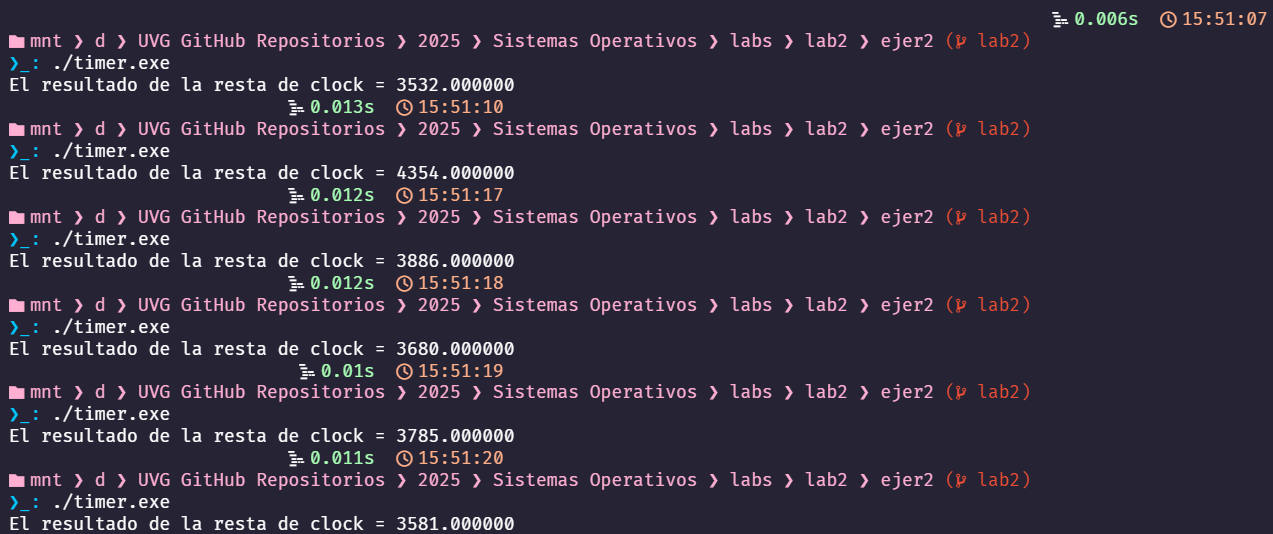
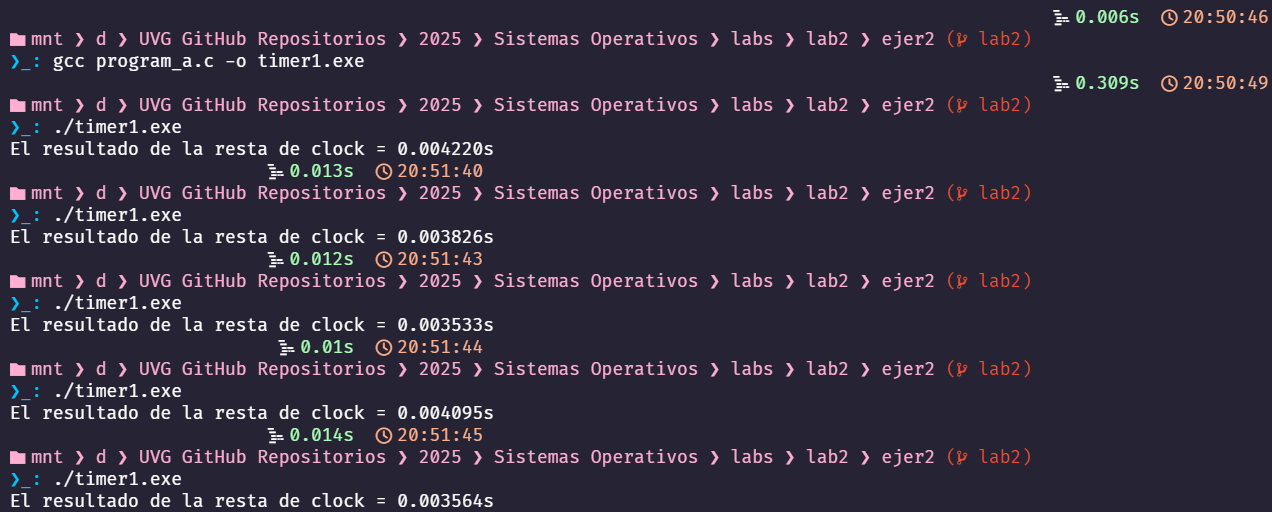
feat:  corrigiendo el tiempo en segundo para programas

Changed region(s): [[0.0, 0.0625, 0.8278, 1.0], [0.8278, 0.0, 1.0, 0.0625], [0.8278, 0.125, 1.0, 0.1875]]

diff --git a/labs/lab2/ejer3/program_b.c b/labs/lab2/ejer3/program_b.c
@@ -31,6 +31,7 @@ int main()
       // hijo
       for (size_t i = 0; i < count; i++)
       {
+        printf("%d", i);
       }
       wait(NULL);
     }
@@ -43,6 +44,7 @@ int main()
         // nieto
         for (size_t i = 0; i < count; i++)
         {
+          printf("%d", i);
         }
         wait(NULL);
       }
@@ -51,6 +53,7 @@ int main()
         // bisnieto
         for (size_t i = 0; i < count; i++)
         {
+          printf("%d", i);
         }
       }
       else

diff --git a/labs/lab2/ejer3/program_a.c b/labs/lab2/ejer3/program_a.c
@@ -10,14 +10,17 @@ int main()
   timer1 = clock();
   for (size_t i = 0; i < count; i++)
   {
+    // printf("%zu", i);
   }
 
   for (size_t i = 0; i < count; i++)
   {
+    // printf("%zu", i);
   }
 
   for (size_t i = 0; i < count; i++)
   {
+    // printf("%zu", i);
   }
   timer2 = clock();
 

diff --git a/labs/lab2/ejer2/README.md b/labs/lab2/ejer2/README.md
@@ -4,13 +4,13 @@
 
 Realizando un programa con 3 `for` consecutivos con 1 millón de iteraciones, tomando el tiempo que ha transcurrido desde el primer `for` hasta que se acaban los 3, usando la librería `time` e imprimiendo la resta de estos tiempos en la pantalla. Se ejecutó varias veces dicho programa obteniendo estos resultados:
 
-| Ejecución | Resultado  |
-|-----------|------------|
-| 1         | 3532.000000|
-| 2         | 4354.000000|
-| 3         | 3886.000000|
-| 4         | 3680.000000|
-| 5         | 3785.000000|
+| Ejecución | Resultado(s)  |
+|-----------|---------------|
+| 1         | 0.004220|
+| 2         | 0.003826|
+| 3         | 0.003533|
+| 4         | 0.004095|
+| 5         | 0.003564|
 
 ![Tiempos Consecutivos de Ejecución](../images/tiempos_cons_ejer2.png "Tiempos Consecutivos de Ejecución")
 
@@ -18,13 +18,13 @@ Realizando un programa con 3 `for` consecutivos con 1 millón de iteraciones, to
 
 En este ejercicio, se desarrolló un programa que crea procesos hijos, generando una jerarquía de bisnietos. Cada hijo ejecuta un ciclo `for`, mientras que cada proceso padre espera a que su hijo termine su ejecución antes de continuar. El tiempo se mide desde antes de la creación del primer hijo hasta que el proceso raíz (el padre) termina de esperar a todos sus hijos, utilizando la librería `time`. Se ejecutó varias veces dicho programa obteniendo estos resultados:
 
-| Ejecución | Resultado  |
+| Ejecución | Resultado(s)  |
 |-----------|------------|
-| 1         | 78.000000|
-| 2         | 61.000000|
-| 3         | 98.000000|
-| 4         | 55.000000|
-| 5         | 95.000000|
+| 1         | 0.000061|
+| 2         | 0.000050|
+| 3         | 0.000085|
+| 4         | 0.000074|
+| 5         | 0.000054|
 
 ![Tiempos Concurrentes de Ejecución](../images/tiempos_conc_ejer2.png "Tiempos Concurrentes de Ejecución")
 

diff --git a/labs/lab2/ejer3/README.md b/labs/lab2/ejer3/README.md
@@ -1,0 +1,5 @@
+# Ejercicio 3
+
+pidstat -w 1 | tee -a log.txt
+
+pidstat -w X 1 | tee -a log.txt
